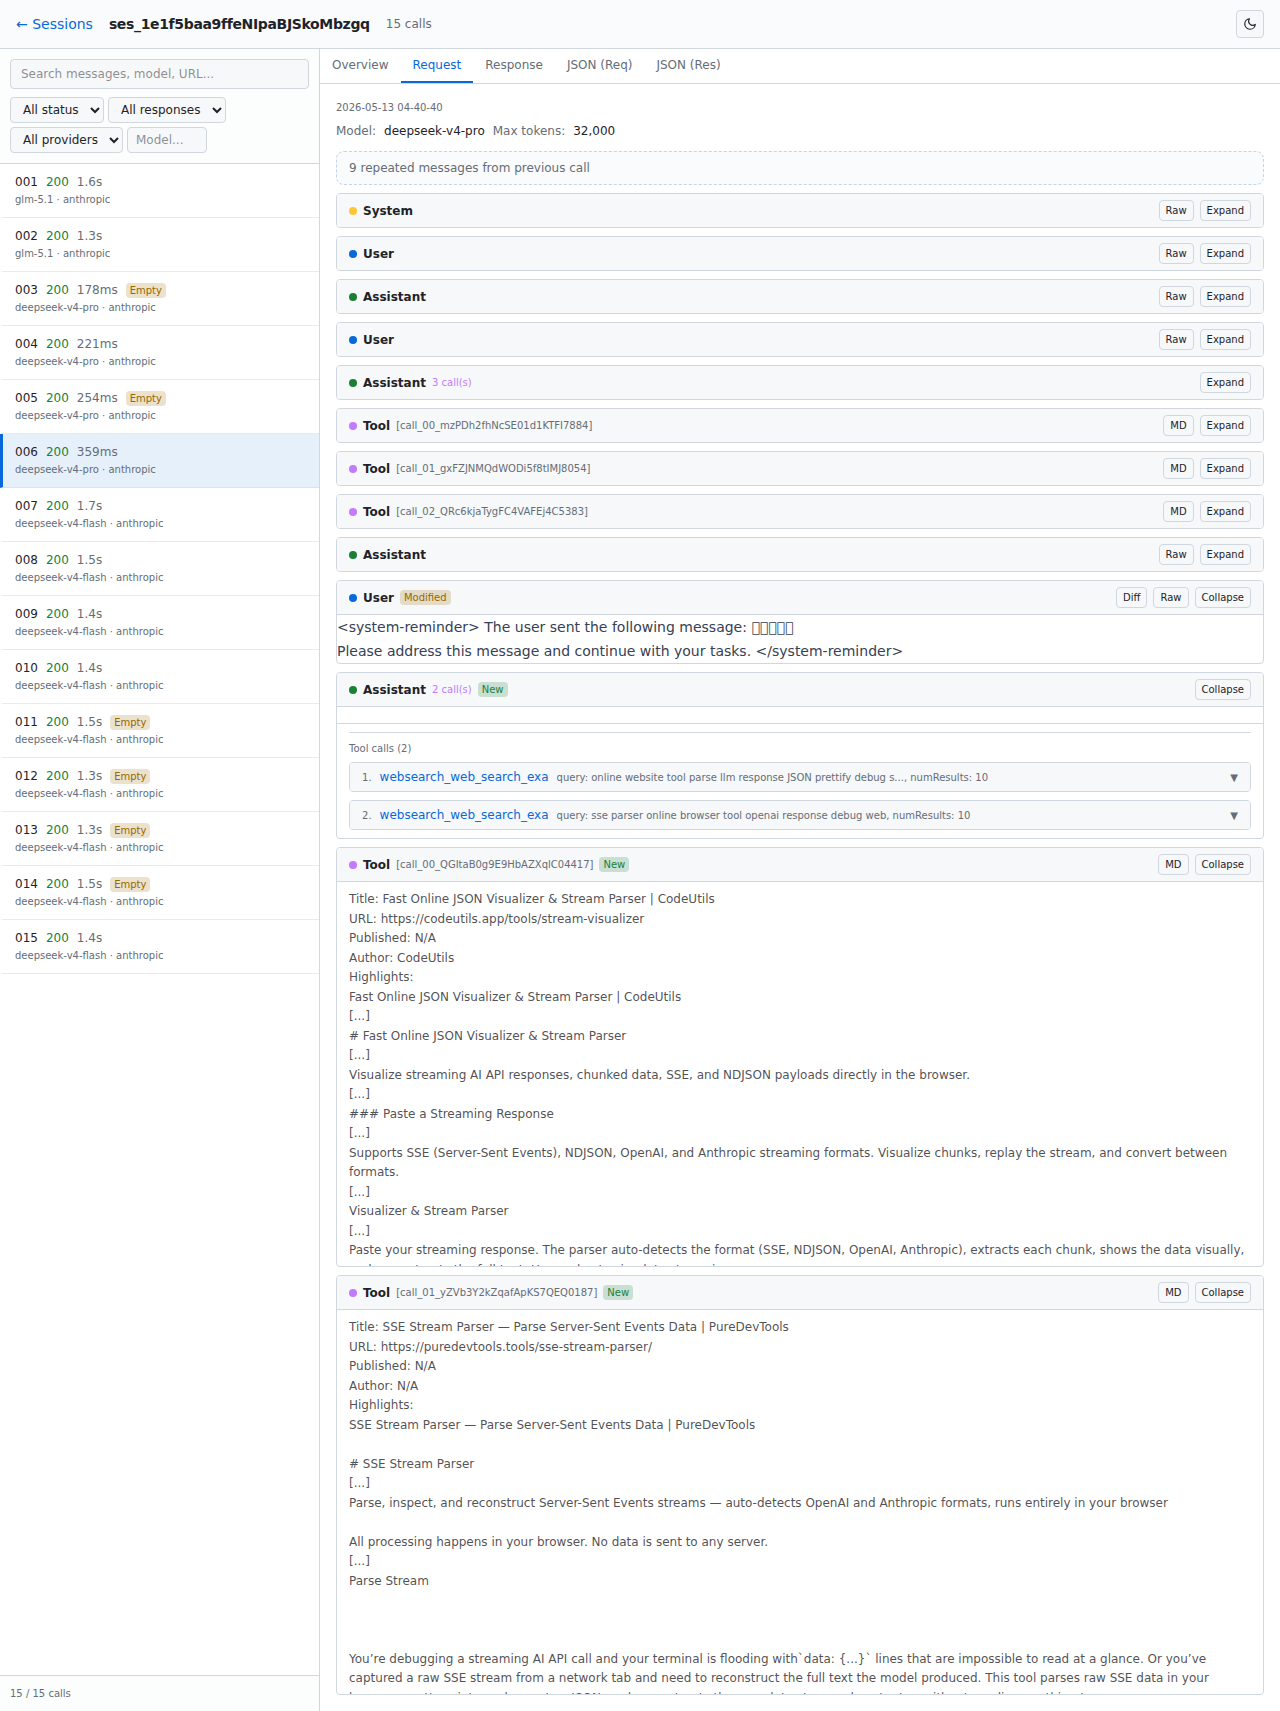
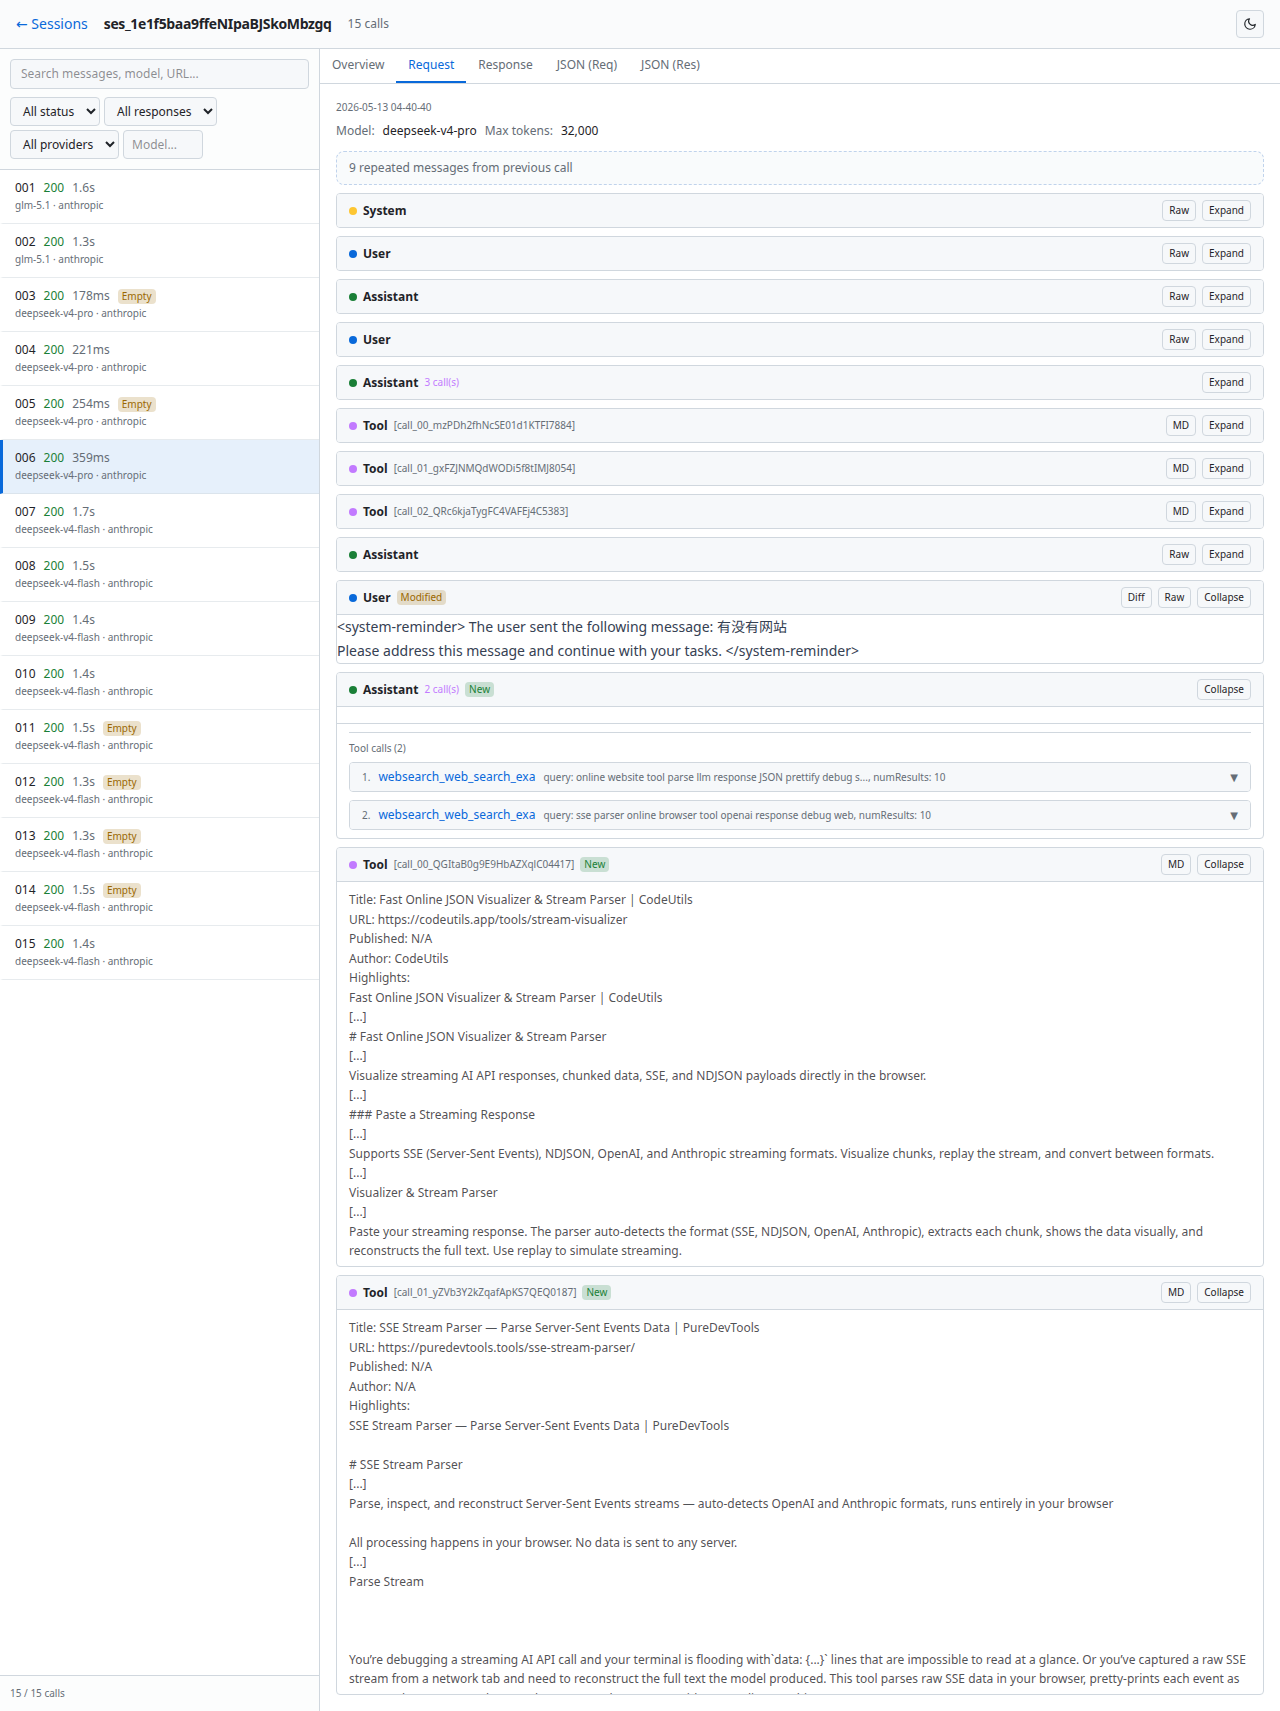
docs: 更新截图

diff --git a/README.md b/README.md
@@ -93,7 +93,7 @@ Or use the input field in the web UI.
 <img src="docs/screenshots/request-md.png" width="100%" alt="Request Markdown">
 
 ### Response Tab — Markdown + Outline
-<img src="docs/screenshots/response-md.png" width="100%" alt="Response Markdown">
+<img src="docs/screenshots/request-md.png" width="100%" alt="Response Markdown">
 
 ## Development
 

diff --git a/README_zh.md b/README_zh.md
@@ -109,7 +109,7 @@ npm run dev
 <img src="docs/screenshots/request-md.png" width="100%" alt="Request Markdown">
 
 ### Response 标签页 — Markdown + 大纲
-<img src="docs/screenshots/response-md.png" width="100%" alt="Markdown 响应">
+<img src="docs/screenshots/request-md.png" width="100%" alt="Markdown 响应">
 
 ## 开发命令
 
